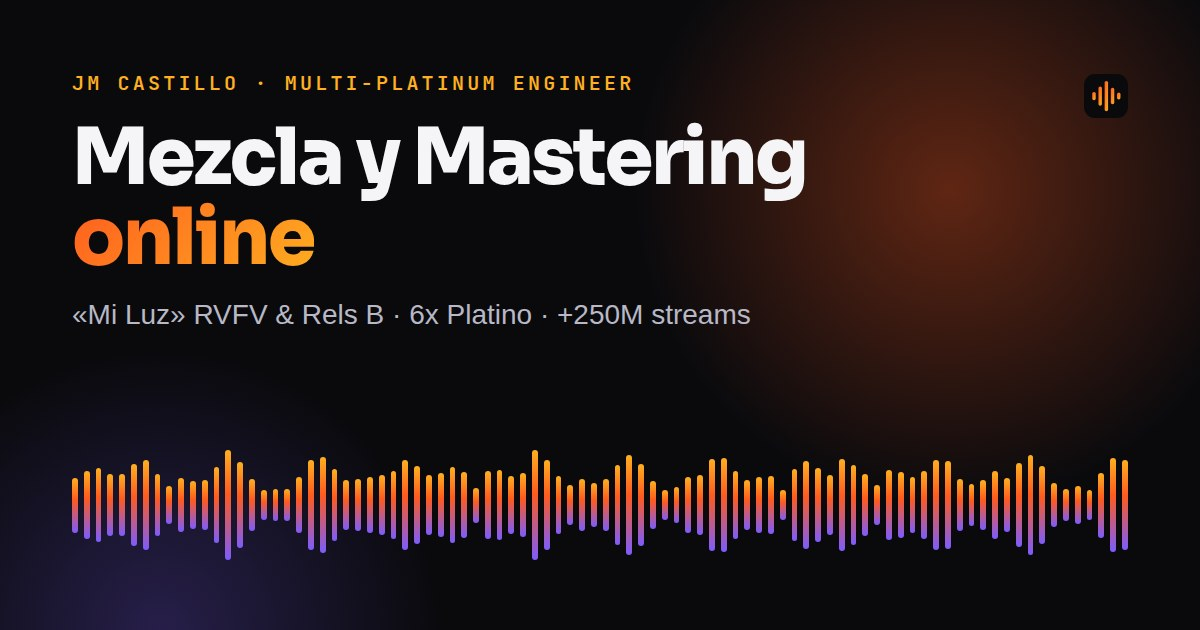
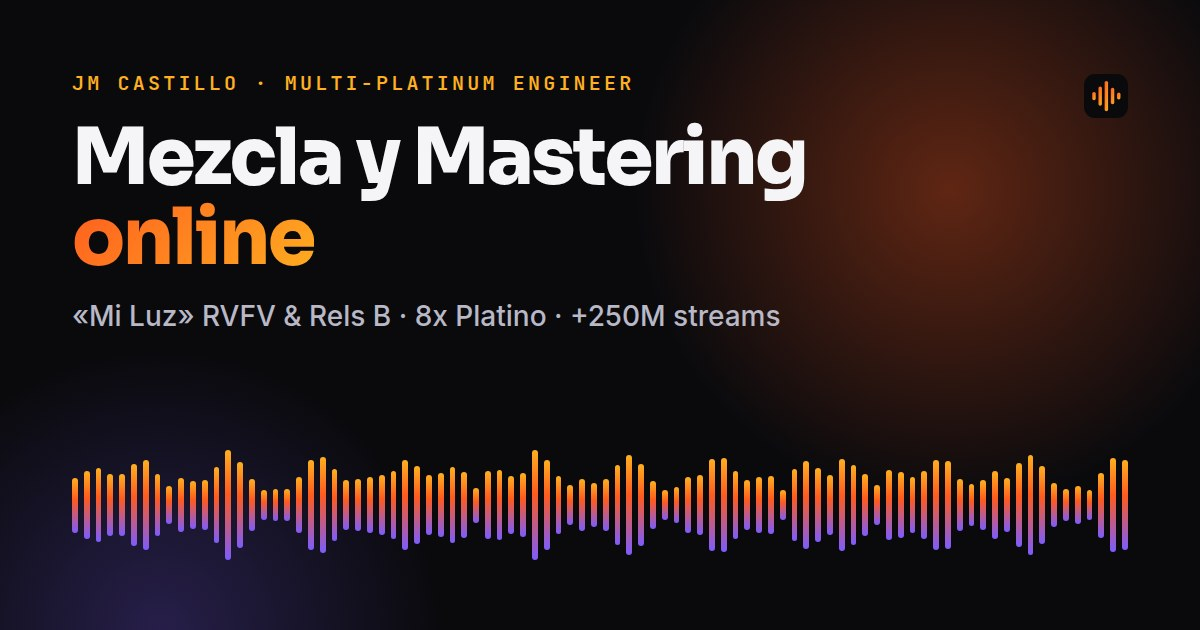
Correct "Mi Luz" certification to 8x Platinum
Claude-Session: https://claude.ai/code/session_01Dknus8vqf4buExFsM3wQoX

Changed region(s): [[0.0617, 0.4825, 0.6475, 0.5429]]

diff --git a/mezcla-y-mastering/index.html b/mezcla-y-mastering/index.html
@@ -4,7 +4,7 @@
 <meta charset="utf-8">
 <meta name="viewport" content="width=device-width, initial-scale=1">
 <title>Mezcla y Mastering Online Profesional | Jm Castillo · Ingeniero Multiplatino</title>
-<meta name="description" content="Mezcla y mastering profesional online con Jm Castillo, ingeniero de Mix &amp; Mastering multiplatino (Rels B, RVFV, «Mi Luz» 6x Platino). Tu canción lista para Spotify, Apple Music y radio. Pide presupuesto.">
+<meta name="description" content="Mezcla y mastering profesional online con Jm Castillo, ingeniero de Mix &amp; Mastering multiplatino (Rels B, RVFV, «Mi Luz» 8x Platino). Tu canción lista para Spotify, Apple Music y radio. Pide presupuesto.">
 <meta name="robots" content="index, follow, max-image-preview:large, max-snippet:-1, max-video-preview:-1">
 <meta name="author" content="Jm Castillo">
 <link rel="canonical" href="https://jmcastillo.es/mezcla-y-mastering/">
@@ -58,7 +58,7 @@
       "url": "https://jmcastillo.es/",
       "image": "https://jmcastillo.es/assets/img/jm-castillo-estudio.jpg",
       "jobTitle": "Ingeniero de mezcla y mastering (Mix & Mastering Engineer)",
-      "description": "Ingeniero de mezcla y mastering y productor musical multiplatino con base en Sevilla (España). Ha mezclado y masterizado «Mi Luz» de RVFV y Rels B, certificada 6x Platino.",
+      "description": "Ingeniero de mezcla y mastering y productor musical multiplatino con base en Sevilla (España). Ha mezclado y masterizado «Mi Luz» de RVFV y Rels B, certificada 8x Platino.",
       "email": "mailto:info@jmcastillo.es",
       "homeLocation": { "@type": "Place", "name": "Sevilla, España" },
       "knowsLanguage": ["es", "en"],
@@ -207,7 +207,7 @@
         <div>
           <p class="eyebrow">Mix &amp; Mastering · Online</p>
           <h1 id="hero-title">Mezcla y Mastering profesional que <span class="grad-text">suena a platino</span></h1>
-          <p class="lead">Soy <strong>Jm Castillo</strong>, ingeniero de mezcla y mastering multiplatino. He mezclado y masterizado <strong>«Mi Luz» de RVFV y Rels B (6x Platino, +250 millones de streams)</strong>. Llevo tu canción al nivel de la industria y del streaming, estés donde estés.</p>
+          <p class="lead">Soy <strong>Jm Castillo</strong>, ingeniero de mezcla y mastering multiplatino. He mezclado y masterizado <strong>«Mi Luz» de RVFV y Rels B (8x Platino, +250 millones de streams)</strong>. Llevo tu canción al nivel de la industria y del streaming, estés donde estés.</p>
           <div class="hero-ctas">
             <a class="btn btn-primary" href="#contacto">Pide presupuesto sin compromiso <svg aria-hidden="true"><use href="#i-arrow"/></svg></a>
             <a class="btn btn-ghost" href="https://soundcloud.com/jmcastillo" rel="noopener" target="_blank">Escucha trabajos</a>
@@ -274,7 +274,7 @@
           <li><a href="#que-es">Qué es la mezcla y el mastering</a></li>
           <li><a href="#servicios">Servicios de mezcla y mastering</a></li>
           <li><a href="#proceso">Cómo trabajamos, paso a paso</a></li>
-          <li><a href="#caso-exito">Caso de éxito: «Mi Luz» 6x Platino</a></li>
+          <li><a href="#caso-exito">Caso de éxito: «Mi Luz» 8x Platino</a></li>
           <li><a href="#streaming">Mastering para Spotify y streaming (LUFS)</a></li>
           <li><a href="#preparar-pistas">Cómo preparar tus pistas</a></li>
           <li><a href="#sobre-jm-castillo">Sobre Jm Castillo</a></li>
@@ -401,7 +401,7 @@
       <article class="case reveal">
         <div class="case-media">
           <div class="disc" aria-hidden="true">
-            <svg width="220" height="220" viewBox="0 0 220 220"><defs><linearGradient id="dg" x1="0" y1="0" x2="1" y2="1"><stop offset="0" class="stop-a"/><stop offset="1" class="stop-b"/></linearGradient></defs><circle cx="110" cy="110" r="104" fill="#0c0c11" stroke="url(#dg)" stroke-width="4"/><circle cx="110" cy="110" r="80" fill="none" stroke="rgba(255,255,255,.06)"/><circle cx="110" cy="110" r="62" fill="none" stroke="rgba(255,255,255,.06)"/><circle cx="110" cy="110" r="44" fill="none" stroke="rgba(255,255,255,.06)"/><circle cx="110" cy="110" r="22" fill="url(#dg)"/><text x="110" y="116" text-anchor="middle" font-family="Sora, sans-serif" font-weight="800" font-size="16" class="disc-text">6x</text></svg>
+            <svg width="220" height="220" viewBox="0 0 220 220"><defs><linearGradient id="dg" x1="0" y1="0" x2="1" y2="1"><stop offset="0" class="stop-a"/><stop offset="1" class="stop-b"/></linearGradient></defs><circle cx="110" cy="110" r="104" fill="#0c0c11" stroke="url(#dg)" stroke-width="4"/><circle cx="110" cy="110" r="80" fill="none" stroke="rgba(255,255,255,.06)"/><circle cx="110" cy="110" r="62" fill="none" stroke="rgba(255,255,255,.06)"/><circle cx="110" cy="110" r="44" fill="none" stroke="rgba(255,255,255,.06)"/><circle cx="110" cy="110" r="22" fill="url(#dg)"/><text x="110" y="116" text-anchor="middle" font-family="Sora, sans-serif" font-weight="800" font-size="16" class="disc-text">8x</text></svg>
           </div>
           <img src="../assets/img/mi-luz-rvfv-rels-b.jpg" alt="Portada de «Mi Luz» de RVFV y Rels B, mezclada y masterizada por Jm Castillo" width="800" height="800" loading="lazy" decoding="async" onerror="this.remove()">
         </div>
@@ -410,7 +410,7 @@
           <h2 id="caso-title">«Mi Luz» · RVFV &amp; Rels B</h2>
           <p class="muted">Mezcla y mastering de Jm Castillo para uno de los temas urbanos más escuchados en España. Un ejemplo de lo que significa preparar una canción para competir en playlists, radio y directo.</p>
           <div class="stats">
-            <div class="stat"><strong>6x</strong><span>Disco de Platino</span></div>
+            <div class="stat"><strong>8x</strong><span>Disco de Platino</span></div>
             <div class="stat"><strong>+250M</strong><span>streams</span></div>
             <div class="stat"><strong class="sm">Mix &amp; Master</strong><span>Jm Castillo</span></div>
           </div>
@@ -485,7 +485,7 @@
         <p class="eyebrow">Sobre mí</p>
         <h2 id="about-title">Jm Castillo, ingeniero de mezcla y mastering multiplatino</h2>
         <p>Soy <strong>Jm Castillo</strong>, ingeniero de mezcla y mastering y productor musical con base en <strong>Sevilla</strong>. Vengo de la cabina: empecé como <strong>DJ, productor y remixer</strong> de música urbana, y esa experiencia viendo cómo reacciona la gente a un tema en la pista es la que aplico hoy en cada mezcla.</p>
-        <p>Mi objetivo es simple: <strong>elevar tu música para que alcance su máximo potencial</strong> y esté al nivel que exigen la industria y las plataformas de streaming. He trabajado con artistas como <strong>Rels B, RVFV, David Bisbal, Camilo, Duki, Anitta o Lola Indigo</strong>, y he mezclado y masterizado <strong>«Mi Luz» (6x Platino)</strong>.</p>
+        <p>Mi objetivo es simple: <strong>elevar tu música para que alcance su máximo potencial</strong> y esté al nivel que exigen la industria y las plataformas de streaming. He trabajado con artistas como <strong>Rels B, RVFV, David Bisbal, Camilo, Duki, Anitta o Lola Indigo</strong>, y he mezclado y masterizado <strong>«Mi Luz» (8x Platino)</strong>.</p>
         <ul class="facts">
           <li><b>Multiplatino</b>«Mi Luz» · RVFV &amp; Rels B</li>
           <li><b>+250M streams</b>en un solo tema</li>

diff --git a/en/mix-and-mastering/index.html b/en/mix-and-mastering/index.html
@@ -4,7 +4,7 @@
 <meta charset="utf-8">
 <meta name="viewport" content="width=device-width, initial-scale=1">
 <title>Mix &amp; Mastering Services Online | Jm Castillo · Multi-Platinum Engineer</title>
-<meta name="description" content="Professional online mixing and mastering by Jm Castillo, multi-platinum Mix &amp; Mastering Engineer (Rels B, RVFV, “Mi Luz” 6x Platinum). Radio- and streaming-ready masters. Get a free quote.">
+<meta name="description" content="Professional online mixing and mastering by Jm Castillo, multi-platinum Mix &amp; Mastering Engineer (Rels B, RVFV, “Mi Luz” 8x Platinum). Radio- and streaming-ready masters. Get a free quote.">
 <meta name="robots" content="index, follow, max-image-preview:large, max-snippet:-1, max-video-preview:-1">
 <meta name="author" content="Jm Castillo">
 <link rel="canonical" href="https://jmcastillo.es/en/mix-and-mastering/">
@@ -56,7 +56,7 @@
       "url": "https://jmcastillo.es/",
       "image": "https://jmcastillo.es/assets/img/jm-castillo-estudio.jpg",
       "jobTitle": "Mix & Mastering Engineer",
-      "description": "Multi-platinum mixing and mastering engineer and music producer based in Seville, Spain. Mixed and mastered “Mi Luz” by RVFV and Rels B, certified 6x Platinum.",
+      "description": "Multi-platinum mixing and mastering engineer and music producer based in Seville, Spain. Mixed and mastered “Mi Luz” by RVFV and Rels B, certified 8x Platinum.",
       "email": "mailto:info@jmcastillo.es",
       "homeLocation": { "@type": "Place", "name": "Seville, Spain" },
       "knowsLanguage": ["es", "en"],
@@ -203,7 +203,7 @@
         <div>
           <p class="eyebrow">Mix &amp; Mastering · Online</p>
           <h1 id="hero-title">Online Mix &amp; Mastering that <span class="grad-text">sounds platinum</span></h1>
-          <p class="lead">I'm <strong>Jm Castillo</strong>, a multi-platinum mixing and mastering engineer. I mixed and mastered <strong>“Mi Luz” by RVFV &amp; Rels B (6x Platinum, 250M+ streams)</strong>. I'll take your song to industry and streaming standard, wherever you are in the world.</p>
+          <p class="lead">I'm <strong>Jm Castillo</strong>, a multi-platinum mixing and mastering engineer. I mixed and mastered <strong>“Mi Luz” by RVFV &amp; Rels B (8x Platinum, 250M+ streams)</strong>. I'll take your song to industry and streaming standard, wherever you are in the world.</p>
           <div class="hero-ctas">
             <a class="btn btn-primary" href="#contact">Get a free quote <svg aria-hidden="true"><use href="#i-arrow"/></svg></a>
             <a class="btn btn-ghost" href="https://soundcloud.com/jmcastillo" rel="noopener" target="_blank">Hear my work</a>
@@ -270,7 +270,7 @@
           <li><a href="#what-is">What mixing and mastering are</a></li>
           <li><a href="#services">Mixing and mastering services</a></li>
           <li><a href="#process">How it works, step by step</a></li>
-          <li><a href="#case-study">Case study: “Mi Luz” 6x Platinum</a></li>
+          <li><a href="#case-study">Case study: “Mi Luz” 8x Platinum</a></li>
           <li><a href="#streaming">Mastering for Spotify &amp; streaming (LUFS)</a></li>
           <li><a href="#prepare-stems">How to prepare your stems</a></li>
           <li><a href="#about">About Jm Castillo</a></li>
@@ -397,7 +397,7 @@
       <article class="case reveal">
         <div class="case-media">
           <div class="disc" aria-hidden="true">
-            <svg width="220" height="220" viewBox="0 0 220 220"><defs><linearGradient id="dg" x1="0" y1="0" x2="1" y2="1"><stop offset="0" class="stop-a"/><stop offset="1" class="stop-b"/></linearGradient></defs><circle cx="110" cy="110" r="104" fill="#0c0c11" stroke="url(#dg)" stroke-width="4"/><circle cx="110" cy="110" r="80" fill="none" stroke="rgba(255,255,255,.06)"/><circle cx="110" cy="110" r="62" fill="none" stroke="rgba(255,255,255,.06)"/><circle cx="110" cy="110" r="44" fill="none" stroke="rgba(255,255,255,.06)"/><circle cx="110" cy="110" r="22" fill="url(#dg)"/><text x="110" y="116" text-anchor="middle" font-family="Sora, sans-serif" font-weight="800" font-size="16" class="disc-text">6x</text></svg>
+            <svg width="220" height="220" viewBox="0 0 220 220"><defs><linearGradient id="dg" x1="0" y1="0" x2="1" y2="1"><stop offset="0" class="stop-a"/><stop offset="1" class="stop-b"/></linearGradient></defs><circle cx="110" cy="110" r="104" fill="#0c0c11" stroke="url(#dg)" stroke-width="4"/><circle cx="110" cy="110" r="80" fill="none" stroke="rgba(255,255,255,.06)"/><circle cx="110" cy="110" r="62" fill="none" stroke="rgba(255,255,255,.06)"/><circle cx="110" cy="110" r="44" fill="none" stroke="rgba(255,255,255,.06)"/><circle cx="110" cy="110" r="22" fill="url(#dg)"/><text x="110" y="116" text-anchor="middle" font-family="Sora, sans-serif" font-weight="800" font-size="16" class="disc-text">8x</text></svg>
           </div>
           <img src="../../assets/img/mi-luz-rvfv-rels-b.jpg" alt="“Mi Luz” by RVFV and Rels B cover art, mixed and mastered by Jm Castillo" width="800" height="800" loading="lazy" decoding="async" onerror="this.remove()">
         </div>
@@ -406,7 +406,7 @@
           <h2 id="case-title">“Mi Luz” · RVFV &amp; Rels B</h2>
           <p class="muted">Mixed and mastered by Jm Castillo — one of the most-streamed urban tracks in Spain. A real-world example of what it takes for a song to compete on playlists, radio and live.</p>
           <div class="stats">
-            <div class="stat"><strong>6x</strong><span>Platinum</span></div>
+            <div class="stat"><strong>8x</strong><span>Platinum</span></div>
             <div class="stat"><strong>250M+</strong><span>streams</span></div>
             <div class="stat"><strong class="sm">Mix &amp; Master</strong><span>Jm Castillo</span></div>
           </div>
@@ -481,7 +481,7 @@
         <p class="eyebrow">About</p>
         <h2 id="about-title">Jm Castillo, multi-platinum mixing &amp; mastering engineer</h2>
         <p>I'm <strong>Jm Castillo</strong>, a mixing and mastering engineer and music producer based in <strong>Seville, Spain</strong>. I came up through the DJ booth as a <strong>DJ, producer and remixer</strong> of urban music, and that instinct for how a crowd reacts to a record is what I bring to every mix today.</p>
-        <p>My goal is simple: <strong>take your music to its full potential</strong> and up to the standard the industry and streaming platforms demand. I've worked with artists such as <strong>Rels B, RVFV, David Bisbal, Camilo, Duki, Anitta and Lola Indigo</strong>, and mixed and mastered <strong>“Mi Luz” (6x Platinum)</strong>.</p>
+        <p>My goal is simple: <strong>take your music to its full potential</strong> and up to the standard the industry and streaming platforms demand. I've worked with artists such as <strong>Rels B, RVFV, David Bisbal, Camilo, Duki, Anitta and Lola Indigo</strong>, and mixed and mastered <strong>“Mi Luz” (8x Platinum)</strong>.</p>
         <ul class="facts">
           <li><b>Multi-platinum</b>“Mi Luz” · RVFV &amp; Rels B</li>
           <li><b>250M+ streams</b>on a single track</li>

diff --git a/README.md b/README.md
@@ -31,7 +31,7 @@ El entorno donde se generó no tenía acceso a jmcastillo.es (bloqueo de red), a
    - `assets/img/jm-castillo-estudio.jpg`: tu foto en el estudio (vertical 4:5, ~800×1000). También se usa en el schema `Person`.
    - `assets/img/mi-luz-rvfv-rels-b.jpg`: portada de «Mi Luz» (cuadrada, ~800×800).
 2. **Tipografías y colores.** Edita los tokens de `:root` al principio de `assets/css/landing.css` (`--font-display`, `--font-body`, `--accent`…) y el `<link>` de Google Fonts de los 2 HTML para que coincidan con tu web.
-3. **Verifica los datos.** Revisa la lista de artistas (Rels B, RVFV, David Bisbal, Camilo, Duki, Anitta, Lola Indigo) y las cifras de «Mi Luz» (6x Platino, +250M streams). Si tienes más créditos, discos certificados o **reseñas reales** de artistas, añádelos: es lo que más sube el E-E-A-T. No se han inventado precios, plazos ni testimonios.
+3. **Verifica los datos.** Revisa la lista de artistas (Rels B, RVFV, David Bisbal, Camilo, Duki, Anitta, Lola Indigo) y las cifras de «Mi Luz» (8x Platino, +250M streams). Si tienes más créditos, discos certificados o **reseñas reales** de artistas, añádelos: es lo que más sube el E-E-A-T. No se han inventado precios, plazos ni testimonios.
 4. **Enlaces internos a tu web.** Hoy apuntan a la home (`https://jmcastillo.es/`) porque no se pudo leer tu menú. Cuando los tengas, cámbialos por tus URLs reales de *Trabajos/Portfolio*, *Contacto* o *Discografía*. Busca `https://jmcastillo.es/"` en los HTML.
 5. Añade la línea de `robots-snippet.txt` a tu robots.txt, y envía el sitemap en Google Search Console y Bing Webmaster Tools.
 
@@ -54,7 +54,7 @@ Dentro de la landing ya hay: índice de contenidos, enlaces contextuales entre s
 | **On-page** | Title y meta description con la keyword al inicio, H1 único, jerarquía H2/H3 con variantes semánticas (mezcla y masterización, mastering online, stem mastering, LUFS…), URLs limpias por idioma |
 | **Internacional** | `hreflang` es / en / x-default (x-default → EN para el mercado internacional), `og:locale`, textos redactados de forma nativa en cada idioma (no traducción literal) |
 | **Datos estructurados** | `@graph` JSON-LD: `WebSite`, `Person` (sameAs a redes), `ProfessionalService`, `Service` + `OfferCatalog`, `WebPage` (speakable, dateModified), `BreadcrumbList`, `FAQPage` (10 preguntas) |
-| **E-E-A-T** | Autoría clara, sección «Sobre mí» con trayectoria real, caso de éxito verificable («Mi Luz» 6x Platino), créditos de artistas, datos de contacto, fecha de actualización visible |
+| **E-E-A-T** | Autoría clara, sección «Sobre mí» con trayectoria real, caso de éxito verificable («Mi Luz» 8x Platino), créditos de artistas, datos de contacto, fecha de actualización visible |
 | **GEO (IA)** | Bloques de «respuesta directa» al inicio de cada sección, definiciones citables, tablas (mezcla vs mastering, LUFS por plataforma), checklist, FAQ, `llms.txt` |
 | **UX / Conversión** | Infografía animada interactiva (antes/después) en el hero, CTA fijo en móvil, formulario de presupuesto que prepara el email (evento `generate_lead` si hay GA4), escucha en SoundCloud |
 | **Rendimiento / a11y** | Sin frameworks, JS diferido (~8 KB), imágenes lazy con width/height, fuentes con `display=swap`, `prefers-reduced-motion`, skip-link, ARIA, contraste alto |
